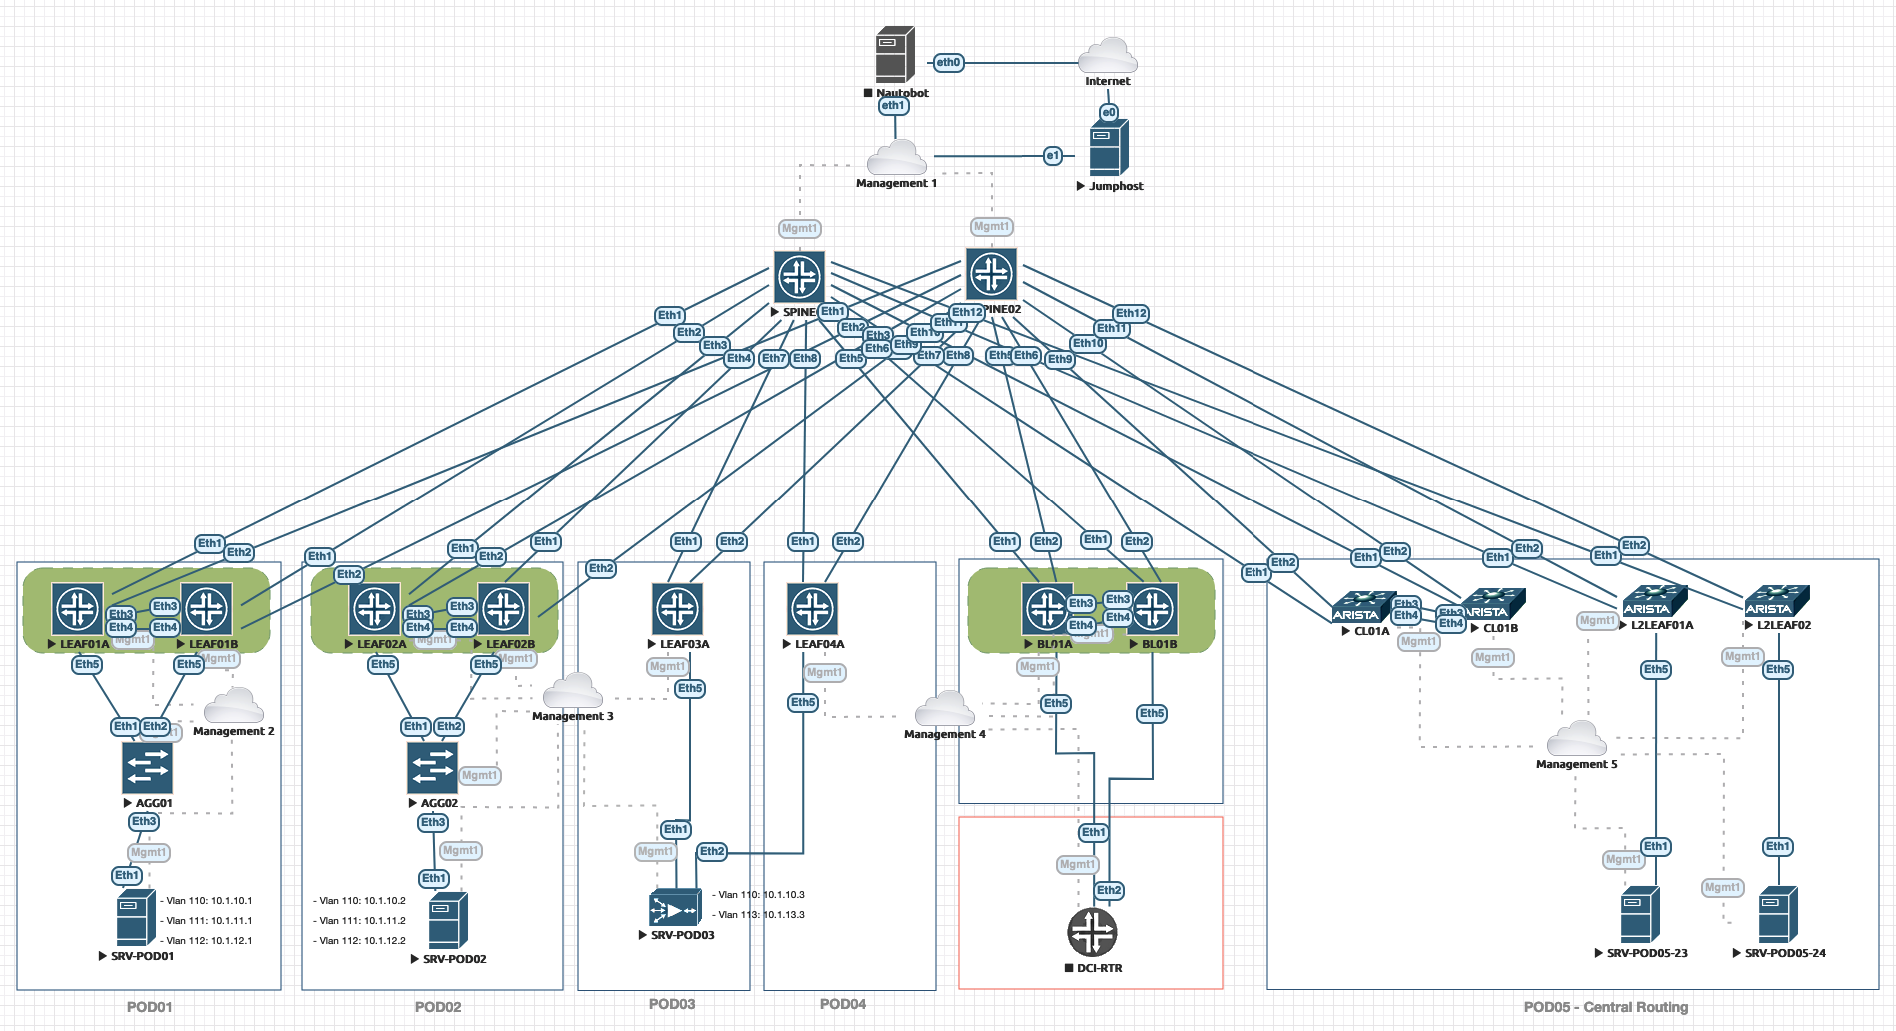
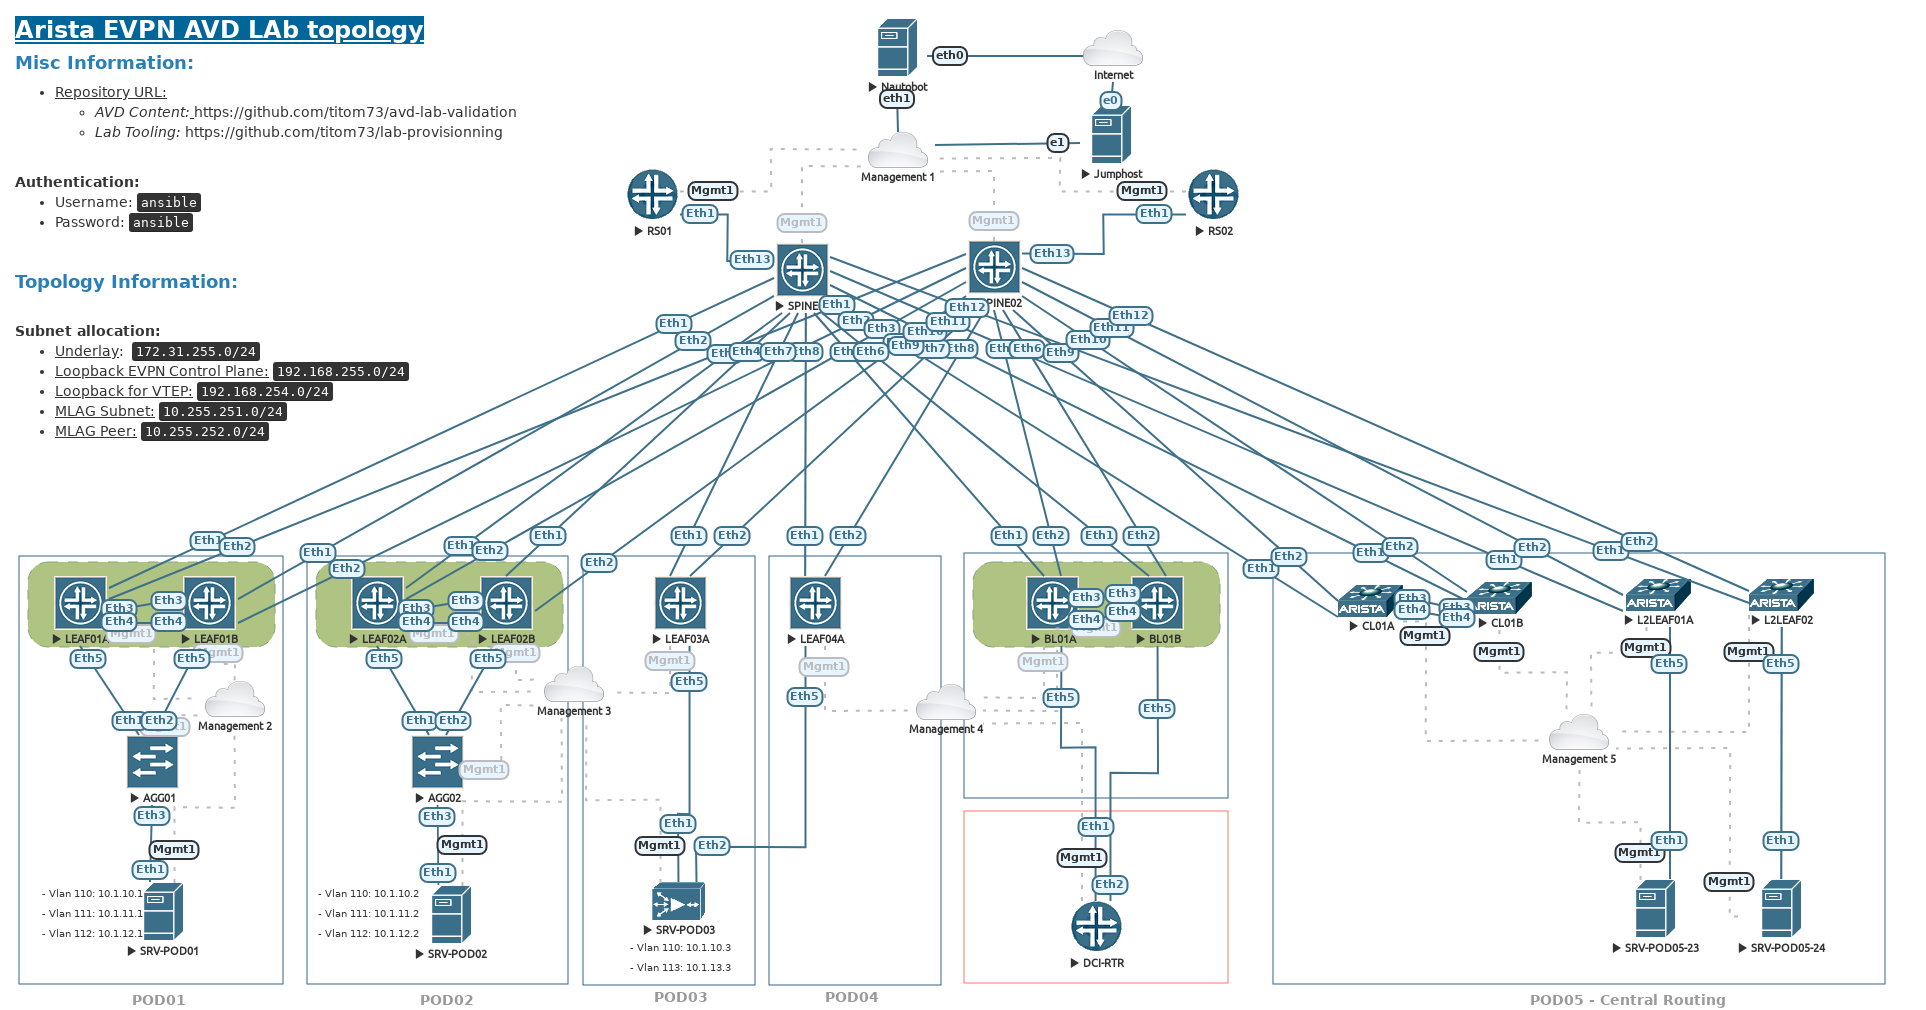
Doc: Update lab diagram

diff --git a/README.md b/README.md
@@ -10,44 +10,10 @@
   - [Enable debugging](#enable-debugging)
     - [Cloudvision collection](#cloudvision-collection)
   - [AVD Commands and Playbooks for CVP deployment](#avd-commands-and-playbooks-for-cvp-deployment)
-    - [AVD Build](#avd-build)
-      - [Build offline configuration with default underlay protocol (BGP)](#build-offline-configuration-with-default-underlay-protocol-bgp)
-      - [Build offline configuration with ISIS as underlay protocol](#build-offline-configuration-with-isis-as-underlay-protocol)
-      - [Run webserver for documentation](#run-webserver-for-documentation)
-    - [Provision Cloudvision](#provision-cloudvision)
-    - [Deploy AVD on Cloudvision](#deploy-avd-on-cloudvision)
-      - [Deploy using default underlay protocol (BGP)](#deploy-using-default-underlay-protocol-bgp)
-      - [Deploy using ISIS as underlay protocol](#deploy-using-isis-as-underlay-protocol)
-    - [Reset lab to ZTP mode](#reset-lab-to-ztp-mode)
-  - [Generic AVD Builder with eAPI](#generic-avd-builder-with-eapi)
-  - [AVD Configlet Uploader](#avd-configlet-uploader)
-    - [Upload configlets](#upload-configlets)
-    - [Delete configlets](#delete-configlets)
-  - [Container Validation](#container-validation)
-    - [Create container topology](#create-container-topology)
-    - [Delete container topology](#delete-container-topology)
-  - [Pure EOS eAPI Playbooks](#pure-eos-eapi-playbooks)
-    - [Backup EOS Configuration](#backup-eos-configuration)
-  - [Build ZTP Server](#build-ztp-server)
-    - [Edit ZTP Information](#edit-ztp-information)
-    - [Configure CV as ZTP](#configure-cv-as-ztp)
-  - [Debugging Playbooks](#debugging-playbooks)
-    - [Get CVP Facts](#get-cvp-facts)
-    - [Get AVD variables](#get-avd-variables)
-      - [EOS_L3LS_EVPN vars](#eos_l3ls_evpn-vars)
-      - [EOS_CLI_CONFIG_GEN vars](#eos_cli_config_gen-vars)
-    - [Docker Environement](#docker-environement)
-      - [Build Docker image](#build-docker-image)
-      - [Run Docker container](#run-docker-container)
-    - [Expose eAPI port with Jumphost](#expose-eapi-port-with-jumphost)
-  - [Tool Servers](#tool-servers)
-    - [Centos 7 Servers](#centos-7-servers)
-      - [Bootstrap servers](#bootstrap-servers)
-      - [Configure DHCP Server](#configure-dhcp-server)
 
 ## Topology
 
-![Topology](inventories/inetsix-cvp/media/lab-topology.png)
+![Topology](inventories/inetsix-eapi/medias/topology.png)
 
 ## Setup
 
@@ -120,326 +86,4 @@ Log folder: `cvp-debug-logs/`
 __Available options:__
 
 - `INVENTORY`: Variable to target a specific inventory.
-
-### AVD Build
-
-#### Build offline configuration with default underlay protocol (BGP)
-
-```shell
-# Makefile
-$ make avd-build
-
-# Ansible command
-$ ansible-playbook playbooks/dc1-fabric-deploy-cvp.yml --tags build
-```
-
-#### Build offline configuration with ISIS as underlay protocol
-
-```shell
-# Makefile
-$ make avd-build-isis
-
-# Ansible command
-$ ansible-playbook playbooks/dc1-fabric-deploy-cvp.yml \
-    --tags build \
-    --extra-vars "underlay_routing_protocol=ISIS"
-```
-
-#### Run webserver for documentation
-
-> mkdocs MUST be installed using [`requirements.txt`](requirements.txt)
-
-```shell
-$ mkdocs serve
-INFO    -  Building documentation...
-INFO    -  Cleaning site directory
-INFO    -  Documentation built in 0.51 seconds
-[I 200520 09:45:42 server:296] Serving on http://127.0.0.1:8000
-INFO    -  Serving on http://127.0.0.1:8000
-...
-```
-
-Documentation available on [localhost](http://127.0.0.1:8000/DC1_FABRIC/DC1_FABRIC/)
-
-### Provision Cloudvision
-
-In this scenario, playbook do not execute pending tasks
-
-```shell
-# Makefile
-$ make avd-provision
-
-# Ansible command
-$ ansible-playbook playbooks/dc1-fabric-deploy-cvp.yml --tags provision
-```
-
-### Deploy AVD on Cloudvision
-
-Run following steps:
-- build
-- provision
-
-Set var to execute pending tasks
-
-#### Deploy using default underlay protocol (BGP)
-
-```shell
-# Makefile
-$ make avd-deploy
-
-# Ansible command
-$ ansible-playbook playbooks/dc1-fabric-deploy-cvp.yml \
-    --extra-vars "execute_tasks=true" \
-    --tags "build,provision,apply"
-```
-
-#### Deploy using ISIS as underlay protocol
-
-```shell
-# Makefile
-$ make avd-deploy-isis
-
-# Ansible command
-$ ansible-playbook playbooks/dc1-fabric-deploy-cvp.yml \
-    --extra-vars "execute_tasks=true underlay_routing_protocol=ISIS" \
-    --tags "build,provision,apply"
-```
-
-### Reset lab to ZTP mode
-
-```shell
-# Makefile
-$ make avd-reset
-
-# Ansible command
-$ ansible-playbook playbooks/dc1-fabric-reset-cvp.yml
-```
-
-## Generic AVD Builder with eAPI
-
-__Available options:__
-
-- `ANSIBLE_ARGS`: Variable to send custom ansible options like `--check --diff` or `--limit`
-- `INVENTORY`: Variable to target a specific inventory.
-
-To build configuration offline with a generic topology and no Cloudvision instance, use following Make:
-
-```shell
-# Makefile
-$ make generic-build INVENTORY=inventories/inetsix-eapi
-
-# Ansible command
-$ ansible-playbook playbooks/avd-generic-build.yml --tags build -i inventories/inetsix-eapi/inventory.yml
-```
-
-If there is no routed access, use [iptables approach](#expose-eapi-port-with-jumphost)
-
-## AVD Configlet Uploader
-
-### Upload configlets
-
-- Source folder: `configlets`
-
-```shell
-# Makefile
-$ make configlet-upload
-
-# Ansible command
-$ ansible-playbook playbooks/dc1-upload-configlets.yml
-```
-
-### Delete configlets
-
-- Source folder: `configlets`
-
-```shell
-# Makefile
-$ make configlet-delete
-
-# Ansible command
-$ ansible-playbook playbooks/dc1-remove-configlets.yml
-```
-
-## Container Validation
-
-### Create container topology
-
-```shell
-# Makefile
-$ make container-create
-
-# Ansible command
-$ ansible-playbook playbooks/cv-container-testing.yml --extra-vars "run_mode=merge"
-```
-
-### Delete container topology
-
-```shell
-# Makefile
-$ make container-delete
-
-# Ansible command
-$ ansible-playbook playbooks/cv-container-testing.yml --extra-vars "run_mode=delete"
-```
-
-## Pure EOS eAPI Playbooks
-
-### Backup EOS Configuration
-
-```shell
-# Makefile
-$ make eos-backup
-
-# Ansible command
-$ ansible-playbook ansible-playbook playbooks/eos-configuration-backup.yml
-```
-
-Output is saved under `{{inventory_dir}}/config_backup/<DATE>`. It means `{{inventory_dir}}/config_backup/` __must__ be present first
-
-## Build ZTP Server
-
-### Edit ZTP Information
-
-ZTP Server __MUST be__ in `ZTP` inventory group
-
-```yaml
-# vim $(INVENTORY)/group_vars/CVP.yml
----
-ztp:
-  default:
-    registration: 'http://10.255.0.1/ztp/bootstrap'
-    gateway: 10.255.0.3
-    nameservers:
-      - '10.255.0.3'
-  general:
-    subnets:
-      - network: 10.255.0.0
-        netmask: 255.255.255.0
-        gateway: 10.255.0.3
-        nameservers:
-          - '10.255.0.3'
-        start: 10.255.0.200
-        end: 10.255.0.250
-        lease_time: 300
-  clients:
-  # AVD/CVP Integration
-    - name: DC1-SPINE1
-      mac: 0c:1d:c0:1d:62:01
-      ip4: 10.255.0.11
-```
-
-### Configure CV as ZTP
-
-```shell
-# Makefile
-$ make dhcp-configure
-
-# Ansible command
-$ ansible-playbook playbooks/dc1-ztp-configuration.yml
-```
-
-## Debugging Playbooks
-
-### Get CVP Facts
-
-```shell
-# Makefile
-$ make facts
-
-# Ansible command
-$ ansible-playbook playbooks/extract-facts.yml \
-    --extra-vars "output_file=../cvp-debug-logs/arista.cvp.facts.json"
-```
-
-### Get AVD variables
-
-#### EOS_L3LS_EVPN vars
-
-- Output folders: [`output_variables`](output_variables/)
-
-```shell
-# Makefile
-$ make avd-vars-input
-
-# Ansible command
-$ ansible-playbook playbooks/extract-avd-vars.yml --tags eos_l3ls_evpn
-```
-
-#### EOS_CLI_CONFIG_GEN vars
-
-- Output folders: [`output_variables`](output_variables/)
-
-```shell
-# Makefile
-$ make avd-vars-devices
-
-# Ansible command
-$ ansible-playbook playbooks/extract-avd-vars.yml --tags cli
-```
-
-### Docker Environement
-
-#### Build Docker image
-
-> Require to clone ansible-avd next to this repository
-
-```shell
-# Makefile
-$ make docker-build
-
-# Docker command
-$ docker build -f ../ansible-avd/development/Dockerfile -t avdteam/lab:latest ../ansible-avd/development/
-```
-
-#### Run Docker container
-
-```shell
-# Makefile
-$ make docker-run
-
-# Docker command
-$ docker run -it --rm -v ~/arista-ansible/lab-validation/../:/projects avdteam/lab:latest /bin/zsh
-```
-
-### Expose eAPI port with Jumphost
-
-In case of no routed access, use [iptables](./iptables-port-forward.sh) to expose eAPI ports:
-
-```shell
-# On Jumphost
-
-# Edit Addresses
-$ vim iptables-port-forward.sh
-
-iptables -t nat -A PREROUTING -p tcp -i eth0 --dport 8022 -j DNAT --to-destination 10.73.254.22:443
-iptables -A FORWARD -p tcp -d 10.73.254.0/24 --dport 443 -m state --state NEW,ESTABLISHED,RELATED -j ACCEPT
-
-$ sudo sh iptables-port-forward.sh
-```
-
-## Tool Servers
-
-- Inventories are all under [`inventories/tools/`](inventories/tools/)
-- Inventory variable is `$(TOOLS)`
-
-### Centos 7 Servers
-
-#### Bootstrap servers
-
-```shell
-# Makefile
-$ make centos-bootstrap
-
-# ansible command
-$ ansible-playbook playbooks/centos07-bootstrap.yml -i $(TOOLS)/$(INVENTORY_FILE)
-```
-
-#### Configure DHCP Server
-
-```shell
-# Makefile
-$ make dhcp-bootstrap
-
-# ansible command
-$ ansible-playbook playbooks/dhcp-configuration.yml -i $(TOOLS)/$(INVENTORY_FILE)
-```
+- `ANSIBLE_ARGS`: Variable to pass some ansible arguments
